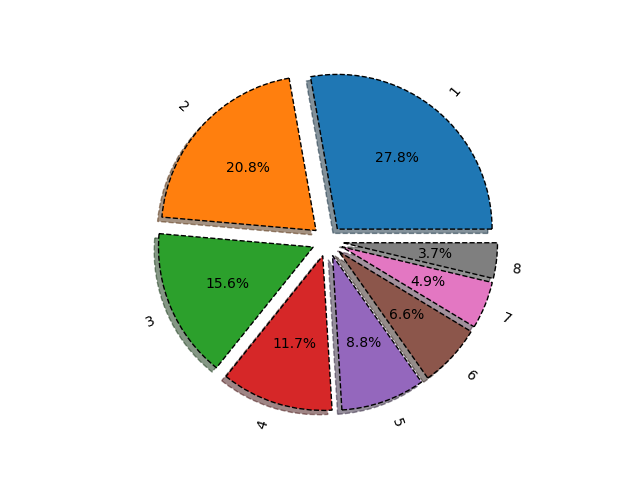
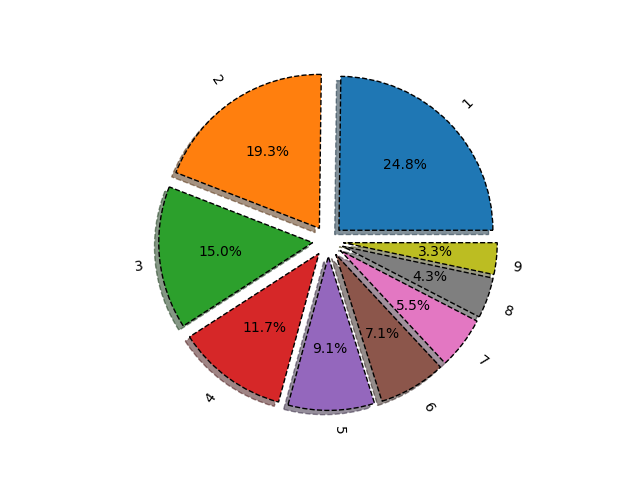
Изменение1

diff --git a/main.py b/main.py
@@ -19,24 +19,24 @@ print(POLI)
 k, T, C, L = symbols('k C T L')
 
 # 1 способ
-C_ost = 70000
+C_ost = 90000
 Am_lst = []
 C_ost_lst = []
-for i in range(8):
+for i in range(9):
     Am = (C - L) / T
-    C_ost -= Am.subs({C: 70000, T: 8, L: 0})
-    Am_lst.append(round(Am.subs({C: 70000, T: 8, L: 0}), 2))
+    C_ost -= Am.subs({C: 90000, T: 9, L: 0})
+    Am_lst.append(round(Am.subs({C: 90000, T: 9, L: 0}), 2))
     C_ost_lst.append(round(C_ost, 2)) # что это? Эта строка добавляет новое значение в конец списка C_ost_lst, предварительно округляя его до 2 знаков после запятой.
 print('Am_lst:', Am_lst)
 print('C_ost_lst:', C_ost_lst)
 
 # 2 способ 
 Aj = 0
-C_ost = 70000
+C_ost = 90000
 Am_lst_2 = []
 C_ost_lst_2 = []
-for i in range(8):
-    Am = 2 * 1/8 * (70000 - Aj)  # k=2, T=6
+for i in range(9):
+    Am = 2 * 1/9 * (90000 - Aj)  # k=2, T=6
     Am = round(Am, 2)
     C_ost -= Am
     C_ost = round(C_ost, 2)
@@ -47,7 +47,7 @@ print('Am_lst_2:', Am_lst_2)
 print('C_ost_lst_2:', C_ost_lst_2)
 
 # Табличный вывод
-Y = range(1, 9)  
+Y = range(1, 10)  
 table1 = list(zip(Y, C_ost_lst, Am_lst))
 table2 = list(zip(Y, C_ost_lst_2, Am_lst_2))
 tfame = pd.DataFrame(table1, columns=['Y', 'C_ost_lst', 'Am_lst'])
@@ -64,8 +64,8 @@ plt.savefig('chart14.png')
 
 # Первая круговая диаграмма
 vals = Am_lst
-labels = [str(x) for x in range(1, 9)]  
-explode = (0.1, 0.1, 0.1, 0.1, 0.1, 0.1, 0.1, 0.1)
+labels = [str(x) for x in range(1, 10)]  
+explode = (0.1, 0.1, 0.1, 0.1, 0.1, 0.1, 0.1, 0.1, 0.1)
 fig, ax = plt.subplots()
 ax.pie(vals, labels=labels, autopct='%1.1f%%', shadow=True,
        explode=explode, wedgeprops={'lw': 1, 'ls': '--', 'edgecolor': "k"},
@@ -75,8 +75,8 @@ plt.savefig('chart15.png')
 
 # Вторая круговая диаграмма 
 vals = Am_lst_2
-labels = [str(x) for x in range(1, 9)]  
-explode = (0.1, 0.1, 0.1, 0.1, 0.1, 0.1, 0.1, 0.1)  
+labels = [str(x) for x in range(1, 10)]  
+explode = (0.1, 0.1, 0.1, 0.1, 0.1, 0.1, 0.1, 0.1, 0.1)  
 fig, ax = plt.subplots()
 ax.pie(vals, labels=labels, autopct='%1.1f%%', shadow=True,
        explode=explode, wedgeprops={'lw': 1, 'ls': '--', 'edgecolor': "k"},
